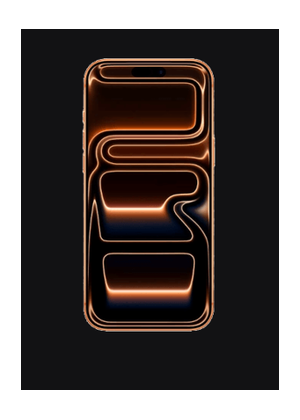
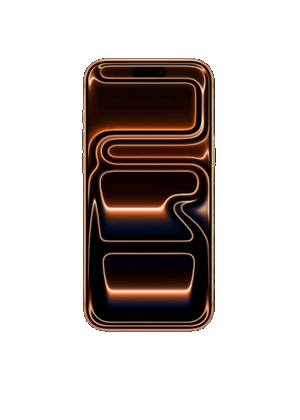
Give the estimator the width it needs, and brand marks instead of words
The shop put our sell page beside GoRecell's and said ours "looks very
small". Two caps were doing it, and widening either alone achieved nothing:
the host element allowed 760px, and the card inside it allowed 720px, so the
grid never had more than about 675px to lay tiles into whatever the page
offered. Both now allow 1180px, and the tiles themselves went from a 155px
floor to 200px — a wider container on its own would only have fitted more
small tiles, and the complaint was the size, not the count. Five to a row at
full width now, two on a phone.

Brand chips carried the brand's name as plain type, which read as a form
rather than a storefront. They now carry the brand's mark, drawn inline so a
slow CDN cannot leave a row of empty boxes, with the name kept for screen
readers. Brands with no drawn mark get their name set as a wordmark, which
looks deliberate beside the others rather than like a missing image.

The two tiles mended earlier still carried their own opaque backdrop, so
after the caption came off they sat in the grid as a black rectangle and a
blue one among transparent cut-outs. Flood-filled the backdrop away from the
border — not keyed by colour, which would have eaten the handset's own dark
screen — leaving the device alone like every other tile.

51 frontend tests. Verified in a browser at 1280px: host 1180px, five tiles a
row, twelve brand marks, no console errors.

diff --git a/trade-in-platform/src/components/BrandLogos.tsx b/trade-in-platform/src/components/BrandLogos.tsx
@@ -1,0 +1,154 @@
+/**
+ * Brand marks for the model picker.
+ *
+ * A row of words is a form; a row of marks is a storefront, and the shop
+ * compared ours against one that uses marks. Drawn inline rather than fetched
+ * so the widget stays one file on someone else's page and a slow CDN cannot
+ * leave a row of empty boxes where the brands should be.
+ *
+ * Anything without a mark falls back to its name set as a wordmark, which is
+ * honest and looks deliberate — better than a generic placeholder glyph that
+ * says nothing about which brand it is.
+ */
+import type { JSX } from "react";
+
+interface Props {
+  brand: string;
+  className?: string;
+}
+
+const box = { viewBox: "0 0 24 24", "aria-hidden": true as const, focusable: "false" as const };
+
+const MARKS: Record<string, () => JSX.Element> = {
+  apple: () => (
+    <svg {...box} fill="currentColor">
+      <path d="M12.152 6.896c-.948 0-2.415-1.078-3.96-1.04-2.04.027-3.91 1.183-4.961 3.014-2.117 3.675-.546 9.103 1.519 12.09 1.013 1.454 2.208 3.09 3.792 3.039 1.52-.065 2.09-.987 3.935-.987 1.831 0 2.35.987 3.96.948 1.637-.026 2.676-1.48 3.676-2.948 1.156-1.688 1.636-3.325 1.662-3.415-.039-.013-3.182-1.221-3.22-4.857-.026-3.04 2.48-4.494 2.597-4.559-1.429-2.09-3.623-2.324-4.39-2.376-2-.156-3.675 1.09-4.61 1.09zM15.53 3.83c.843-1.012 1.4-2.427 1.245-3.83-1.207.052-2.662.805-3.532 1.818-.78.896-1.454 2.338-1.273 3.714 1.338.104 2.715-.688 3.559-1.701" />
+    </svg>
+  ),
+  google: () => (
+    <svg {...box}>
+      <path fill="#4285F4" d="M23.52 12.27c0-.85-.08-1.67-.22-2.45H12v4.63h6.46a5.52 5.52 0 0 1-2.4 3.62v3h3.88c2.27-2.09 3.58-5.17 3.58-8.8z" />
+      <path fill="#34A853" d="M12 24c3.24 0 5.96-1.08 7.94-2.91l-3.88-3.01c-1.08.72-2.45 1.15-4.06 1.15-3.12 0-5.77-2.11-6.71-4.95H1.28v3.09A12 12 0 0 0 12 24z" />
+      <path fill="#FBBC05" d="M5.29 14.28a7.2 7.2 0 0 1 0-4.56V6.63H1.28a12 12 0 0 0 0 10.74l4.01-3.09z" />
+      <path fill="#EA4335" d="M12 4.77c1.76 0 3.34.61 4.59 1.8l3.43-3.43C17.95 1.19 15.24 0 12 0A12 12 0 0 0 1.28 6.63l4.01 3.09C6.23 6.88 8.88 4.77 12 4.77z" />
+    </svg>
+  ),
+  samsung: () => (
+    <svg viewBox="0 0 96 24" aria-hidden focusable="false">
+      <ellipse cx="48" cy="12" rx="47" ry="11.4" fill="#1428A0" />
+      <text
+        x="48"
+        y="16.3"
+        textAnchor="middle"
+        fill="#fff"
+        fontSize="11"
+        fontWeight="700"
+        letterSpacing="1.1"
+        fontFamily="Helvetica, Arial, sans-serif"
+      >
+        SAMSUNG
+      </text>
+    </svg>
+  ),
+  microsoft: () => (
+    <svg {...box}>
+      <path fill="#F25022" d="M2 2h9.2v9.2H2z" />
+      <path fill="#7FBA00" d="M12.8 2H22v9.2h-9.2z" />
+      <path fill="#00A4EF" d="M2 12.8h9.2V22H2z" />
+      <path fill="#FFB900" d="M12.8 12.8H22V22h-9.2z" />
+    </svg>
+  ),
+  motorola: () => (
+    <svg {...box} fill="none">
+      <circle cx="12" cy="12" r="10.6" stroke="currentColor" strokeWidth="1.5" />
+      <path d="M5.8 16.2 8.9 7.8l3.1 4.7 3.1-4.7 3.1 8.4h-2.3l-1.4-4-2.5 3.8-2.5-3.8-1.4 4z" fill="currentColor" />
+    </svg>
+  ),
+  oneplus: () => (
+    <svg {...box} fill="none">
+      <rect x="2" y="2" width="20" height="20" rx="4.5" stroke="currentColor" strokeWidth="1.6" />
+      <path d="M7.1 9.1h2V16M13.2 12.6h4.4M15.4 10.4v4.4" stroke="currentColor" strokeWidth="1.7" strokeLinecap="round" />
+    </svg>
+  ),
+  lg: () => (
+    <svg {...box} fill="none">
+      <circle cx="12" cy="12" r="10.4" stroke="currentColor" strokeWidth="1.5" />
+      <path d="M8.4 7.6v6.1h3.2M16.3 10.2a2.8 2.8 0 1 0 .2 3.6h-1.9" stroke="currentColor" strokeWidth="1.5" strokeLinecap="round" strokeLinejoin="round" />
+    </svg>
+  ),
+  sony: () => (
+    <svg viewBox="0 0 80 24" aria-hidden focusable="false">
+      <text x="40" y="17" textAnchor="middle" fill="currentColor" fontSize="15" fontWeight="700" letterSpacing="2.4" fontFamily="Helvetica, Arial, sans-serif">
+        SONY
+      </text>
+    </svg>
+  ),
+  nintendo: () => (
+    <svg viewBox="0 0 96 24" aria-hidden focusable="false">
+      <rect x="1" y="3" width="94" height="18" rx="9" fill="#E60012" />
+      <text x="48" y="16.4" textAnchor="middle" fill="#fff" fontSize="10.5" fontWeight="700" letterSpacing="0.6" fontFamily="Helvetica, Arial, sans-serif">
+        Nintendo
+      </text>
+    </svg>
+  ),
+  huawei: () => (
+    <svg {...box} fill="none">
+      <path d="M12 2.4c-2.6 3.1-3.8 6.6-3.6 10.3.1 2.6.9 5.2 2.3 7.6-3.1-2-5.3-4.5-6.5-7.4-.9-2.2-1-4-.9-5 1.9.9 3.4 2.4 4.6 4.3" stroke="currentColor" strokeWidth="1.4" strokeLinecap="round" strokeLinejoin="round" />
+      <path d="M12 2.4c2.6 3.1 3.8 6.6 3.6 10.3-.1 2.6-.9 5.2-2.3 7.6 3.1-2 5.3-4.5 6.5-7.4.9-2.2 1-4 .9-5-1.9.9-3.4 2.4-4.6 4.3" stroke="currentColor" strokeWidth="1.4" strokeLinecap="round" strokeLinejoin="round" />
+    </svg>
+  ),
+  meta: () => (
+    <svg {...box} fill="none">
+      <path d="M3 15.2c0-3.9 1.9-7.4 4.3-7.4 1.4 0 2.5 1 3.6 2.7L12 12.6l1.1-2.1c1.1-1.7 2.2-2.7 3.6-2.7 2.4 0 4.3 3.5 4.3 7.4 0 2.2-1 3.6-2.7 3.6-1.6 0-2.6-1-4-3.4L12 13.2l-2.3 2.2c-1.4 2.4-2.4 3.4-4 3.4C4 18.8 3 17.4 3 15.2z" stroke="currentColor" strokeWidth="1.6" strokeLinejoin="round" />
+    </svg>
+  ),
+  nothing: () => (
+    <svg viewBox="0 0 96 24" aria-hidden focusable="false">
+      <text x="48" y="16.6" textAnchor="middle" fill="currentColor" fontSize="11" fontWeight="500" letterSpacing="3" fontFamily="Helvetica, Arial, sans-serif">
+        NOTHING
+      </text>
+    </svg>
+  ),
+};
+
+/** Name set as a wordmark, for a brand with no drawn mark. */
+function Wordmark({ name }: { name: string }) {
+  const text = name.toUpperCase();
+  // Long names need a wider box or the letters squash together.
+  const w = Math.max(56, text.length * 9.5);
+  return (
+    <svg viewBox={`0 0 ${w} 24`} aria-hidden focusable="false">
+      <text
+        x={w / 2}
+        y="16.4"
+        textAnchor="middle"
+        fill="currentColor"
+        fontSize="11.5"
+        fontWeight="700"
+        letterSpacing="1.4"
+        fontFamily="Helvetica, Arial, sans-serif"
+      >
+        {text}
+      </text>
+    </svg>
+  );
+}
+
+/** Normalise "Apple", "apple-smartphone", "OnePlus" to a registry key. */
+export function brandKey(brand: string): string {
+  return brand
+    .toLowerCase()
+    .replace(/-(smartphone|tablet|laptop|smartwatch|gaming-console|computer|monitor|vr|series)$/g, "")
+    .replace(/[^a-z0-9]/g, "");
+}
+
+export function hasBrandMark(brand: string): boolean {
+  return brandKey(brand) in MARKS;
+}
+
+export function BrandLogo({ brand, className }: Props) {
+  const Mark = MARKS[brandKey(brand)];
+  return (
+    <span className={className}>{Mark ? <Mark /> : <Wordmark name={brand} />}</span>
+  );
+}

diff --git a/trade-in-platform/src/components/ChoiceGrid.css b/trade-in-platform/src/components/ChoiceGrid.css
@@ -38,10 +38,26 @@
 /* Two comfortable columns on a phone rather than two cramped ones, and the
    photo gets the room: recognising your own handset is the entire job of this
    screen. */
+/*
+ * Device tiles.
+ *
+ * A wider host would otherwise just fit more 155px tiles a row rather than
+ * bigger ones, and the complaint was that the devices look small, not that
+ * there are too few. 200px is close to the tile size the shop is comparing
+ * against; auto-fill still collapses it to two a row on a phone.
+ */
 .device-grid {
   display: grid;
-  grid-template-columns: repeat(auto-fill, minmax(155px, 1fr));
-  gap: 1rem;
+  grid-template-columns: repeat(auto-fill, minmax(200px, 1fr));
+  gap: 1.1rem;
+}
+
+/* Below the widest layouts a 200px floor would strand one tile per row. */
+@media (max-width: 460px) {
+  .device-grid {
+    grid-template-columns: repeat(auto-fill, minmax(150px, 1fr));
+    gap: 0.85rem;
+  }
 }
 
 .device-grid--cats {
@@ -160,19 +176,47 @@
   }
 }
 
-/* Brand chips carried a device photograph shrunk to 18x22 as a stand-in for a
-   brand mark. At that size it read as a smudge, and it was the same handset
-   picture the customer would meet again full-size two taps later. The name on
-   its own is what a person recognises, so the chip is now type, sized to be
-   read and tapped. */
+/*
+ * Brand chips.
+ *
+ * They once carried a device photograph shrunk to 18x22 as a stand-in for a
+ * brand mark, which read as a smudge and was the same handset the customer
+ * would meet full-size two taps later. They then carried the name as plain
+ * type, which was legible but made the row read as a form. They now carry the
+ * brand's own mark, with the name kept for screen readers.
+ */
 .chip-brand {
   display: inline-flex;
   align-items: center;
   justify-content: center;
-  min-height: 44px;
-  padding-inline: 1.1rem;
-  font-size: 0.95rem;
-  font-weight: 600;
+  min-height: 52px;
+  padding-inline: 1rem;
+}
+
+.chip-brand-mark {
+  display: inline-flex;
+  align-items: center;
+  justify-content: center;
+  /* Marks differ in aspect: Apple is square, "SAMSUNG" is a long ellipse. A
+     fixed height with a free width keeps them optically the same size. */
+  height: 22px;
+  max-width: 96px;
+}
+.chip-brand-mark svg {
+  height: 100%;
+  width: auto;
+  max-width: 100%;
+  display: block;
+}
+
+/* Monochrome marks take the chip's ink so they invert with it on selection;
+   the multi-colour ones keep their own palette. */
+.chip-brand .chip-brand-mark { color: var(--ink); }
+.chip-brand.chip--on .chip-brand-mark { color: inherit; }
+
+@media (max-width: 560px) {
+  .chip-brand { min-height: 46px; padding-inline: 0.8rem; }
+  .chip-brand-mark { height: 19px; max-width: 82px; }
 }
 
 @media (max-width: 560px) {

diff --git a/trade-in-platform/src/components/DevicePickStep.tsx b/trade-in-platform/src/components/DevicePickStep.tsx
@@ -6,6 +6,7 @@ import {
   type DeviceModel,
 } from "../data/catalog";
 import { deviceImage } from "../data/deviceImages";
+import { BrandLogo } from "./BrandLogos";
 import { assetUrl, deviceImageUrl, ensureDeviceFromName, mapApiDevice } from "../lib/tradeInApi";
 import "./ChoiceGrid.css";
 import "./FormSteps.css";
@@ -149,10 +150,12 @@ export function DevicePickStep({
             className={`chip chip-brand ${brandFilter === b ? "chip--on" : ""}`}
             onClick={() => onBrandFilter(b)}
           >
-            {/* Brands without a bundled thumbnail (LG, TCL, Nothing…) render
-                the name alone rather than an empty image box. */}
-
-            {b}
+            {/* The mark, with the name left for screen readers. A row of words
+                reads as a form; a row of marks reads as a storefront, which is
+                what the shop is being compared against. A brand with no drawn
+                mark gets its name set as a wordmark, so the row stays even. */}
+            <BrandLogo brand={b} className="chip-brand-mark" />
+            <span className="sr-only">{b}</span>
           </button>
         ))}
         {/* Last, not first. "All brands" is the way out of a filter, not the

diff --git a/trade-in-platform/src/embedHost.css b/trade-in-platform/src/embedHost.css
@@ -1,6 +1,17 @@
 /* Fast embed fonts — avoid render-blocking Google Fonts on Framer/Shopify */
+/*
+ * How wide the widget is allowed to be on the shop's page.
+ *
+ * 760px was a reading measure, and it made the estimator look like a form
+ * dropped into a page rather than the shop's storefront: four small device
+ * tiles a row where GoRecell shows five large ones across most of the window.
+ * The shop compared the two side by side and ours "looks very small".
+ *
+ * This is only a ceiling — the host still decides the real width, and on
+ * Framer the section the embed sits in can cap it lower than this.
+ */
 .tg-trade-in-host {
-  width: min(760px, 100%);
+  width: min(1180px, 100%);
   margin: 1.5rem auto 2.5rem;
   padding: 0 1rem;
   font-family: var(--font-body, "PT Sans", "Segoe UI", system-ui, sans-serif);

diff --git a/trade-in-platform/src/components/TradeInFlow.css b/trade-in-platform/src/components/TradeInFlow.css
@@ -1,5 +1,13 @@
+/*
+ * The card the whole flow sits in.
+ *
+ * 720px was the real constraint on how big the device tiles could be —
+ * widening the host alone just left this card floating in the middle of it.
+ * The shop's complaint was that next to GoRecell our devices look small, and
+ * GoRecell gives its grid most of the window.
+ */
 .trade-in-embed {
-  width: min(720px, 100%);
+  width: min(1180px, 100%);
   margin: 0 auto;
   padding: 1.35rem 1.35rem 2rem;
   border-radius: var(--radius-lg);
